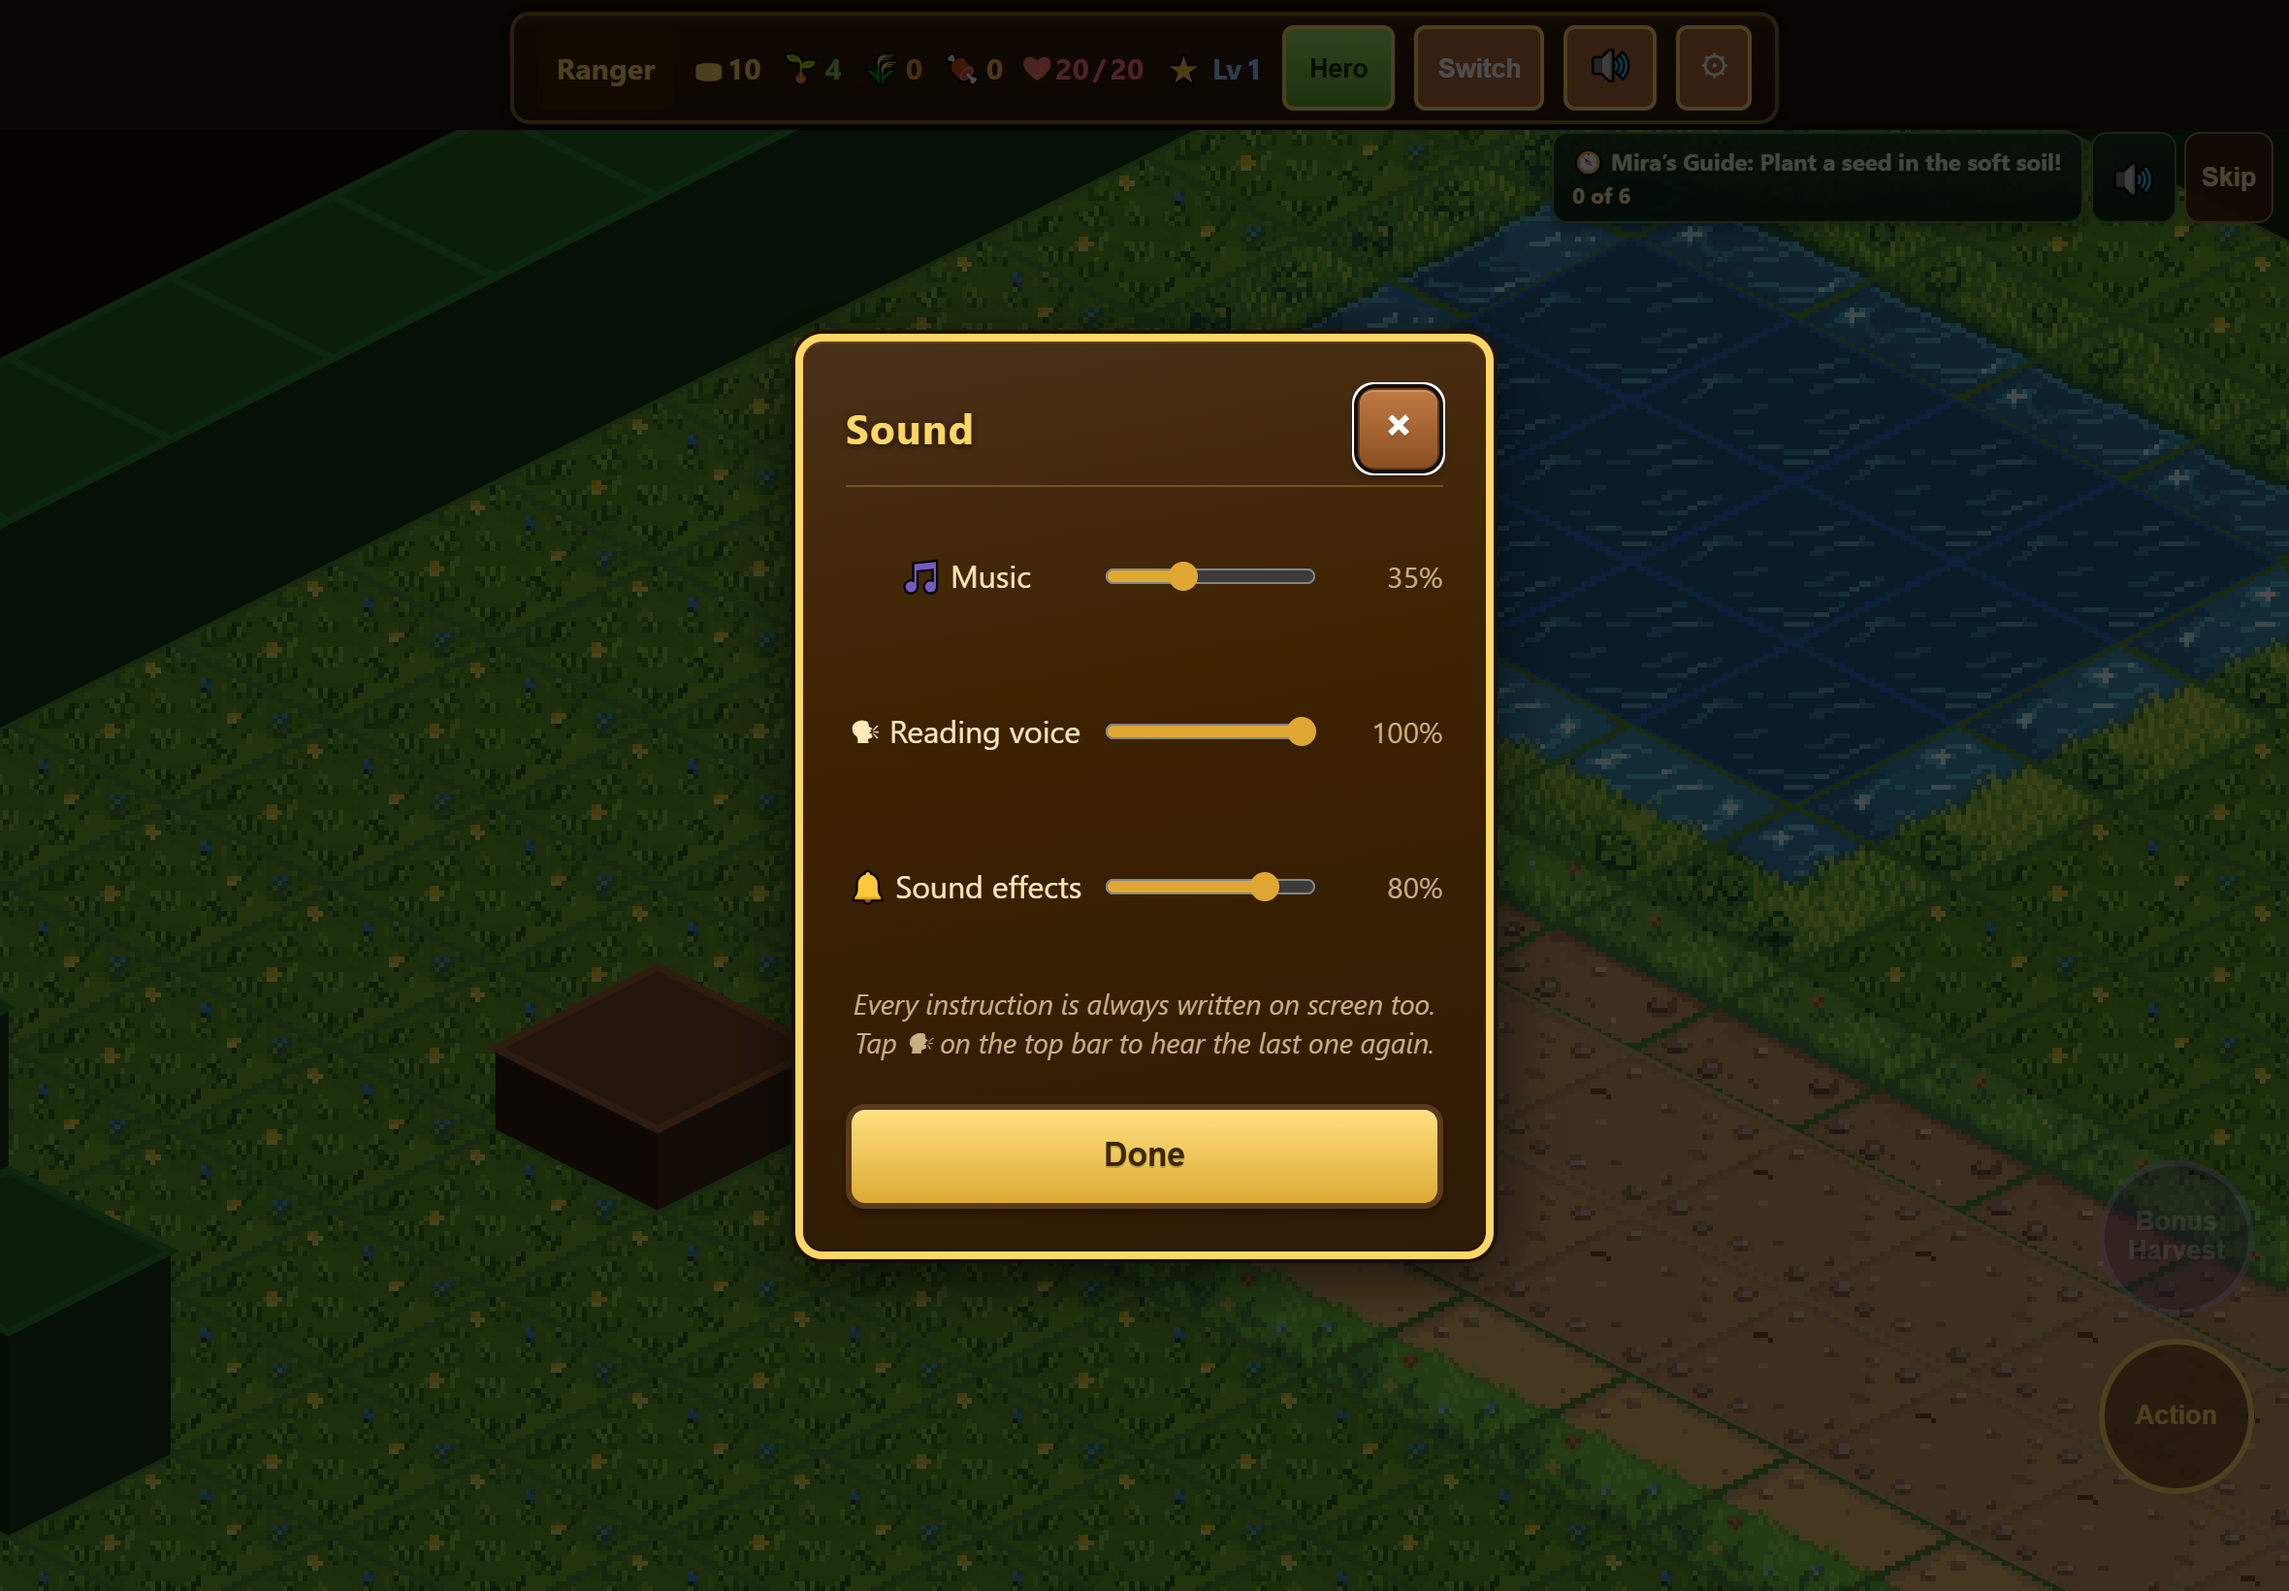
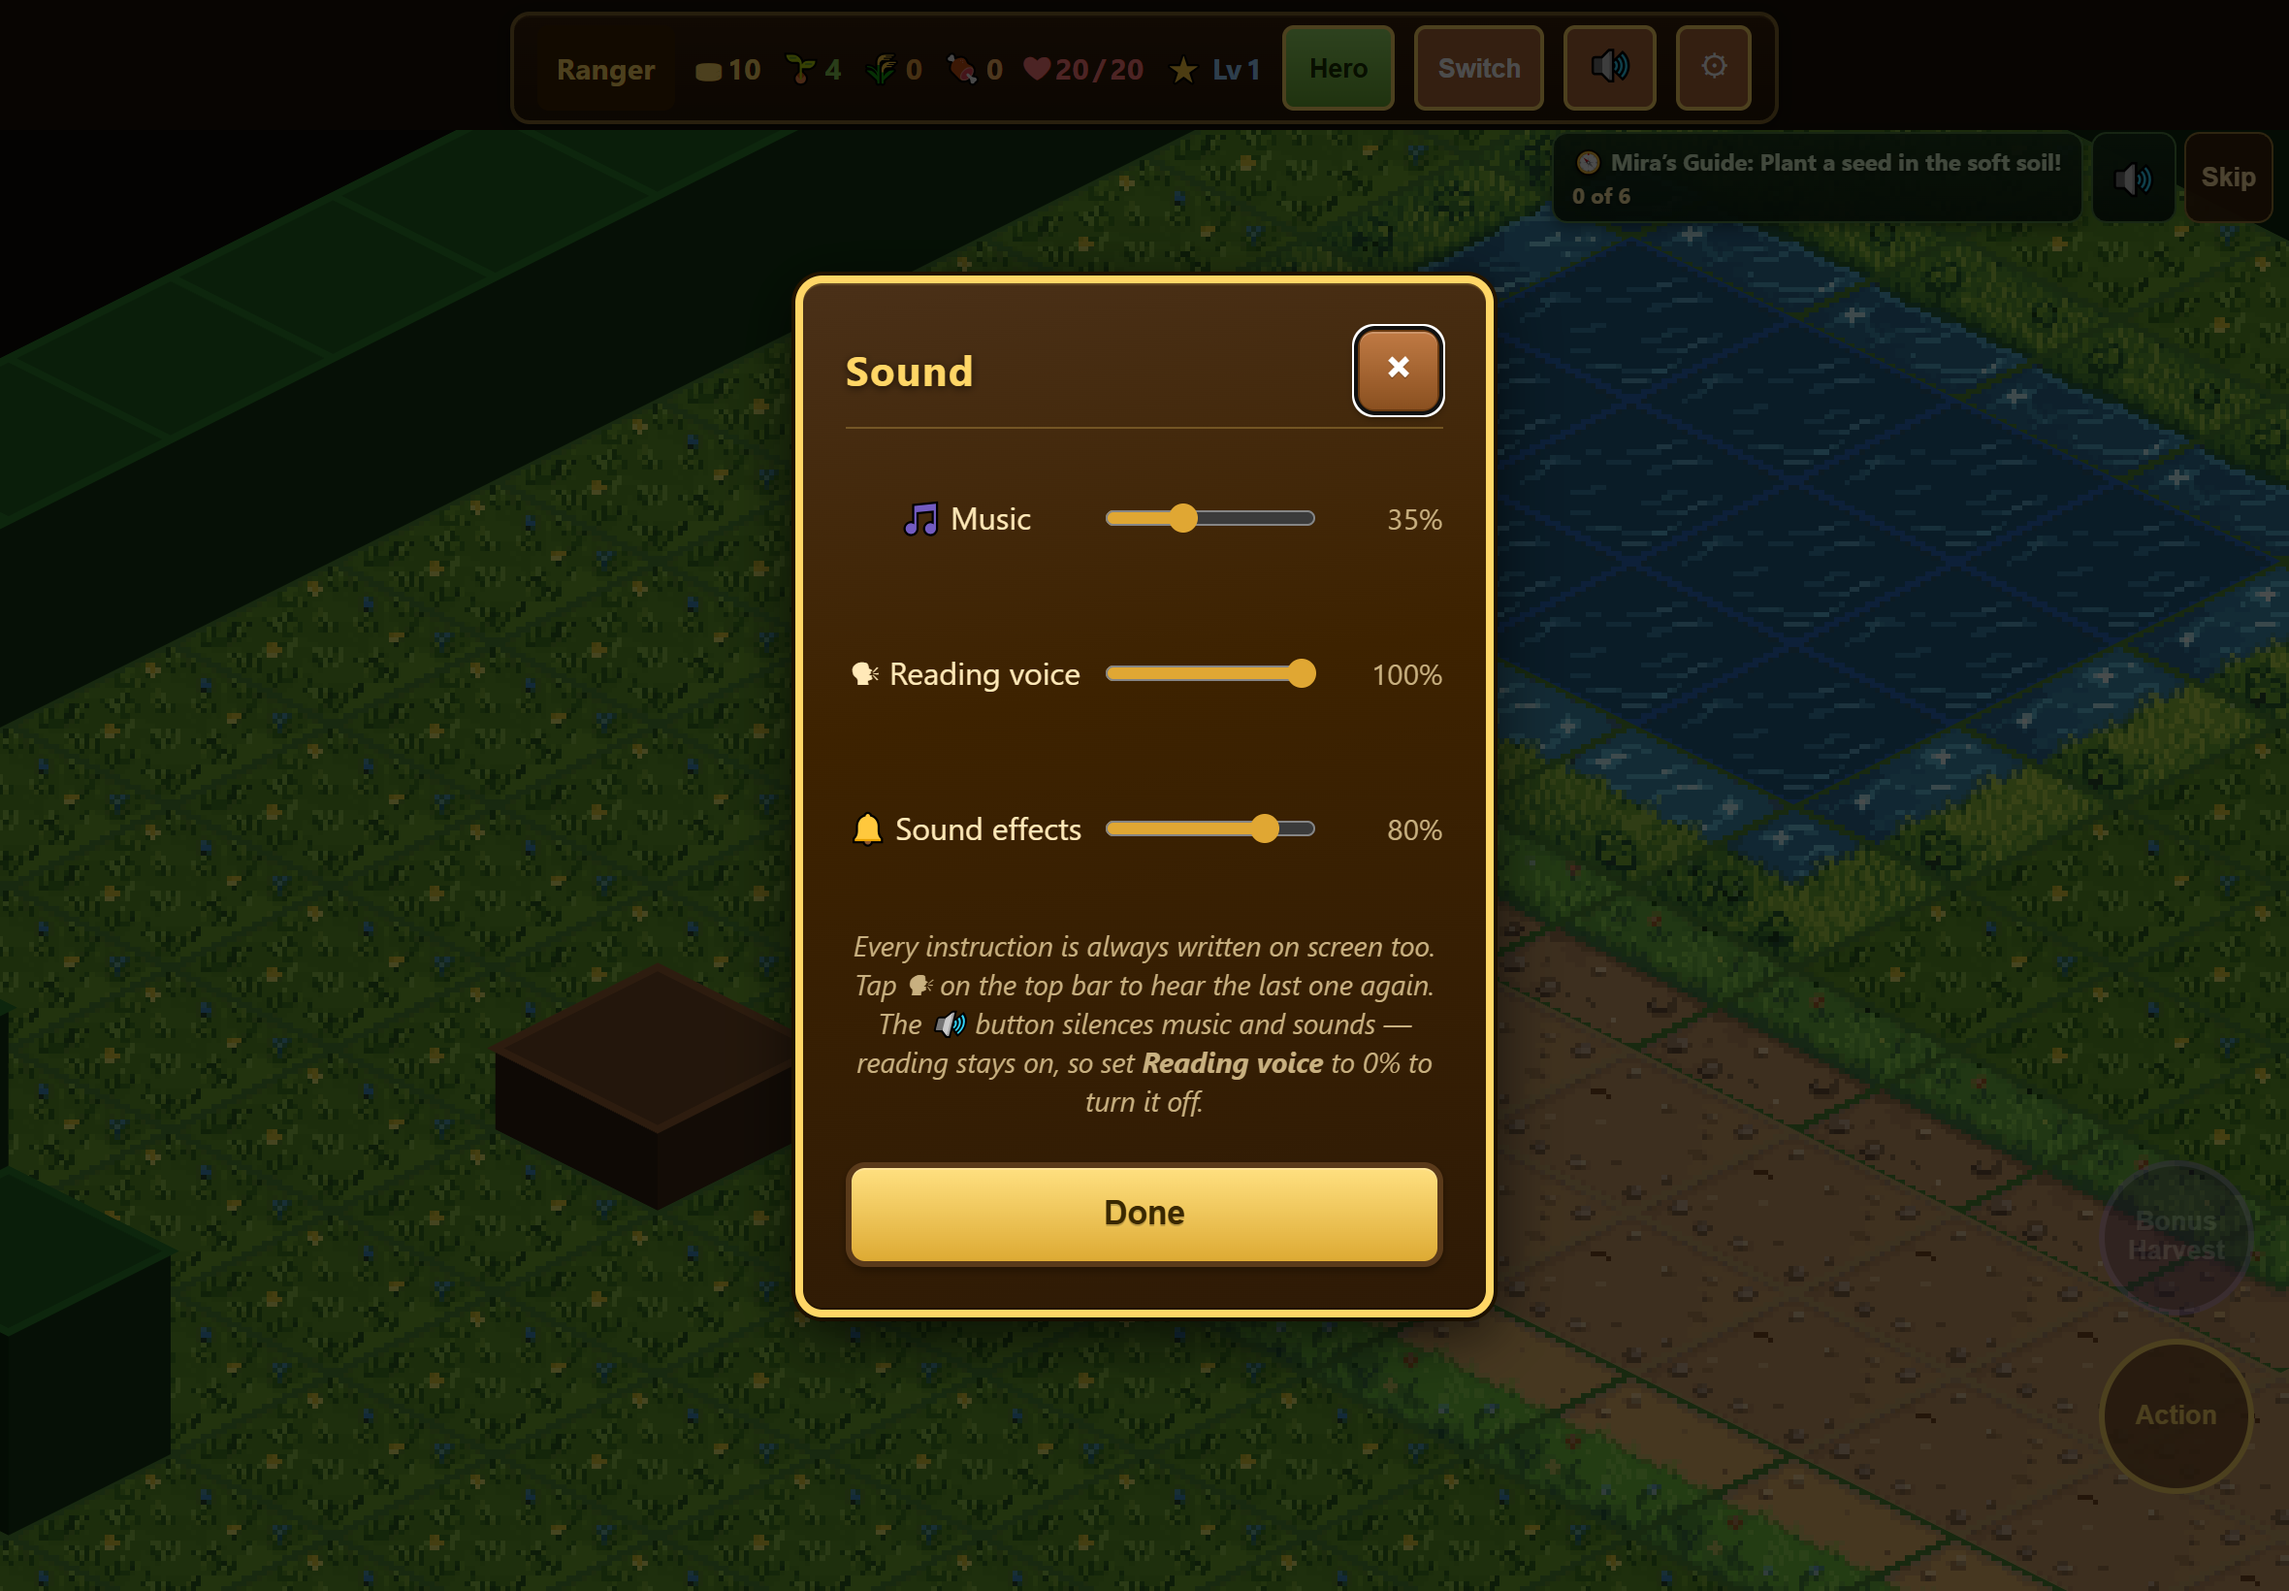
Record the owner ruling that mute leaves the reading voice on
Leo, 2026-08-05: muting should still allow text-to-speech, because a child who
mutes the game may still need it read to them. Turning speech off stays a
separate, deliberate act — set the reading-voice level to 0.

No behaviour change; this documents the existing behaviour, says it in the
sound panel so a grown-up can find it, and pins it with tests so a later change
cannot quietly 'fix' mute to cover speech.

diff --git a/js/02-data-state.js b/js/02-data-state.js
@@ -440,8 +440,12 @@ if (gameMuted) document.getElementById('muteBtn').innerHTML = '&#x1f507;';
 // ---- Per-profile audio levels (ELD-PT-011) ----
 // Three independent channels, because "turn the music down" and "stop reading to me"
 // are different requests. A child who wants every instruction read aloud can still
-// play with the music off. Levels are 0..1 and persist per profile; the global mute
-// button remains the one-tap "silence everything" control and overrides all three.
+// play with the music off. Levels are 0..1 and persist per profile.
+//
+// OWNER RULING (2026-08-05): the global mute button silences music and effects but
+// NOT the reading voice — a child who mutes the game may still need it read to them.
+// Turning speech off is therefore a deliberate, separate act: set the reading-voice
+// level to 0. Do not "fix" mute to cover speech without asking Leo first.
 var AUDIO_CHANNELS = ['music', 'speech', 'effects'];
 var AUDIO_LEVEL_DEFAULTS = { music: 0.35, speech: 1, effects: 0.8 };
 var audioLevels = { music: 0.35, speech: 1, effects: 0.8 };

diff --git a/index.html b/index.html
@@ -198,7 +198,8 @@
              oninput="onAudioSliderInput('effects', this.value)" aria-label="Sound effects volume">
       <span class="sound-value" id="effectsLevelValue">80%</span>
     </div>
-    <p class="sound-note">Every instruction is always written on screen too. Tap &#x1F5E3; on the top bar to hear the last one again.</p>
+    <p class="sound-note">Every instruction is always written on screen too. Tap &#x1F5E3; on the top bar to hear the last one again.
+      The &#x1f50a; button silences music and sounds — reading stays on, so set <b>Reading voice</b> to 0% to turn it off.</p>
     <button class="btn-sell" onclick="closeSoundSettings()">Done</button>
   </div>
 </div>
